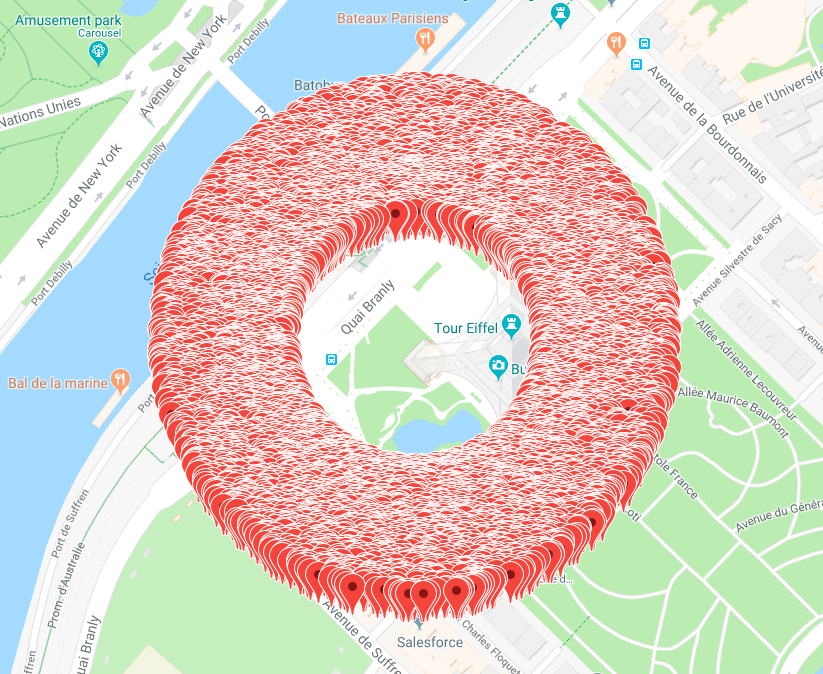
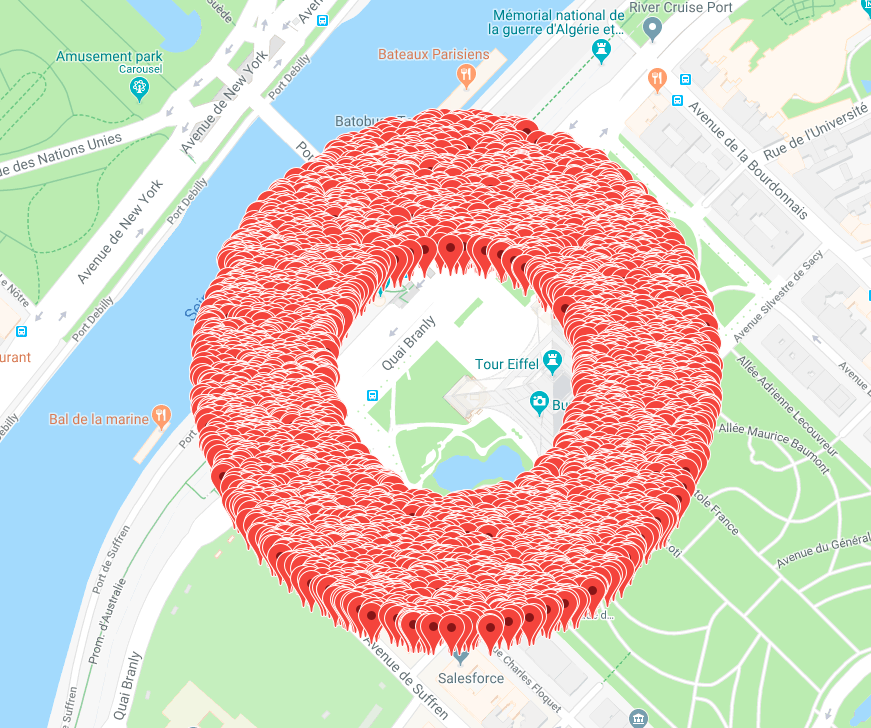
Improve uniformity across radius

diff --git a/assets/main.scss b/assets/main.scss
@@ -1,0 +1,7 @@
+---
+---
+@import 'minima';
+
+.center {
+  text-align: center;
+}
